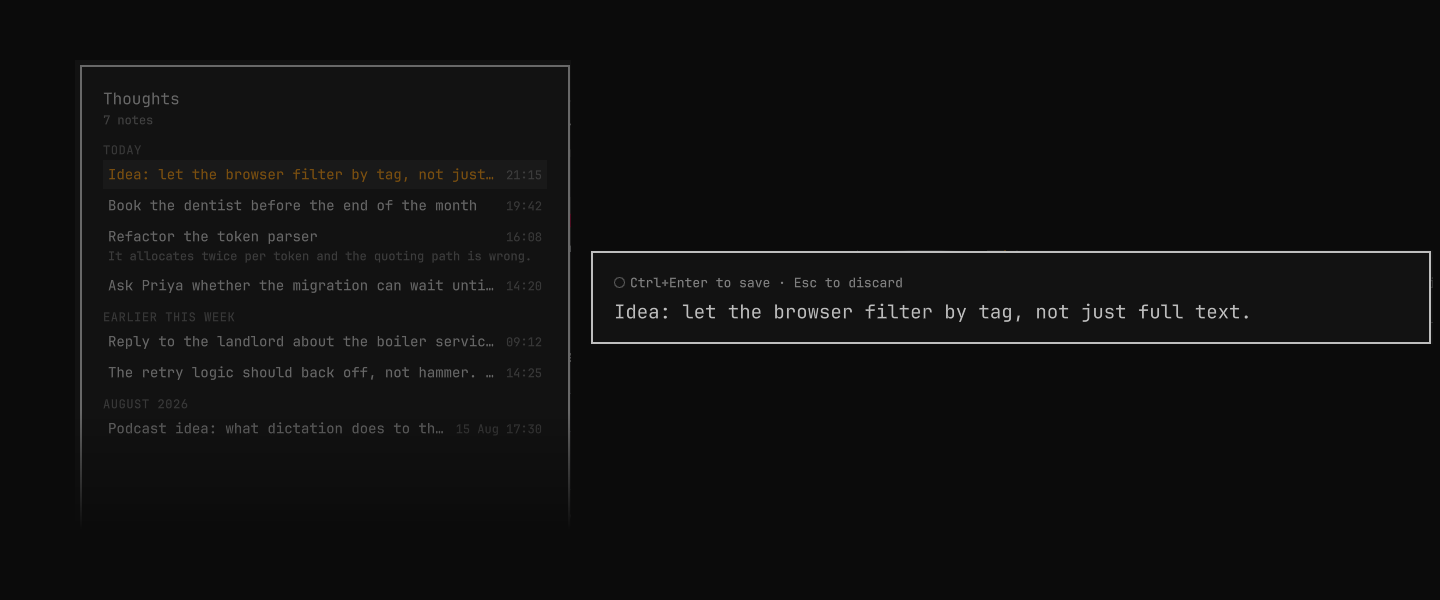
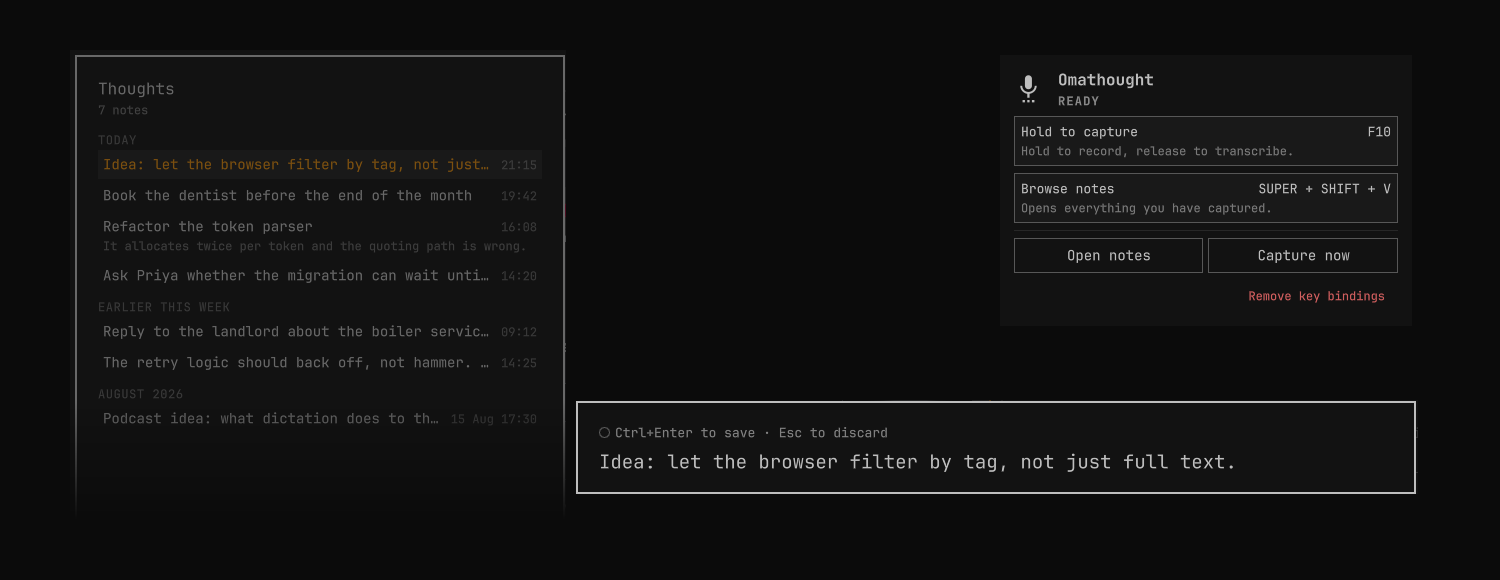
Show the setup panel in the preview
The old image showed the browser and the capture card, leaving out the one
thing that most distinguishes 1.0: picking the keys by clicking a row instead
of editing bindings.lua. All three surfaces are now in frame.

Composited onto a neutral ground rather than shipped as a desktop screenshot,
which would publish whatever happened to be open behind them.

Claude-Session: https://claude.ai/code/session_016VpYLhrphSxjM45aSaryzs

diff --git a/README.md b/README.md
@@ -8,7 +8,7 @@ into a note library: a capture card at the bottom of the screen while you speak,
 and a browser down the left-hand side for everything you have said so far. You
 pick the two keys from its bar panel; it writes them for you.
 
-![The note browser and the capture card](preview.png)
+![The note browser, the setup panel, and the capture card](preview.png)
 
 ## What it does
 
